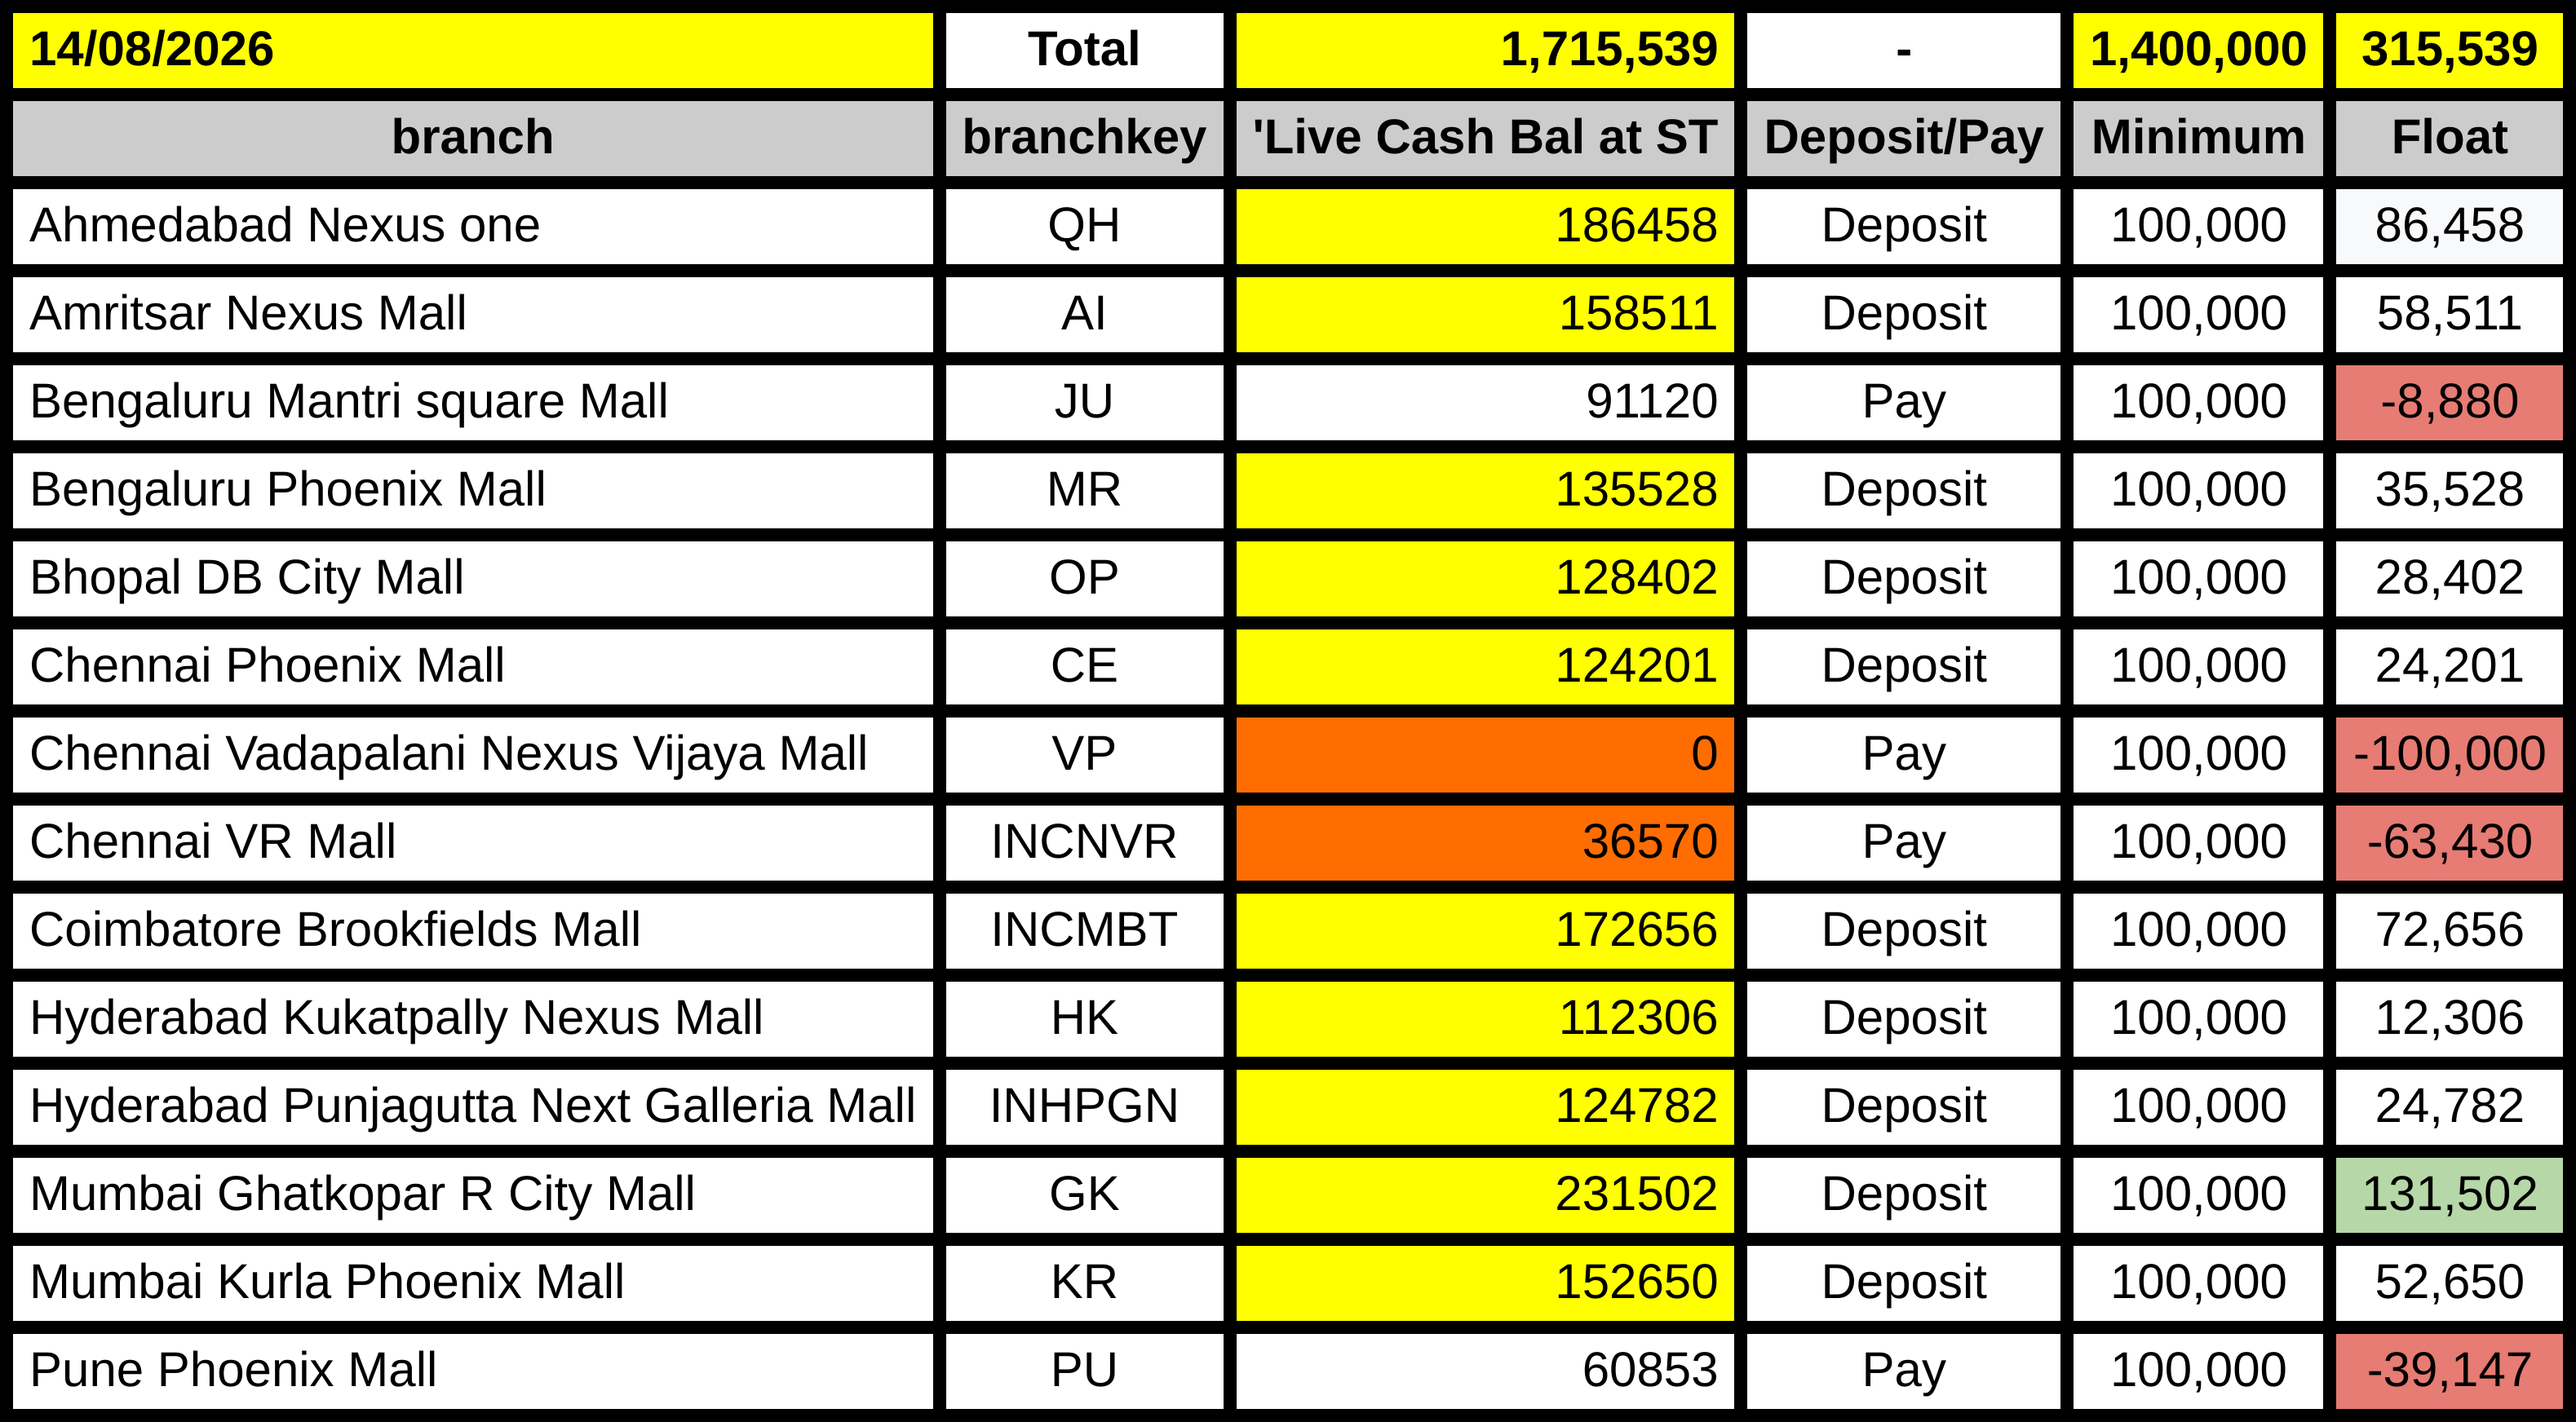
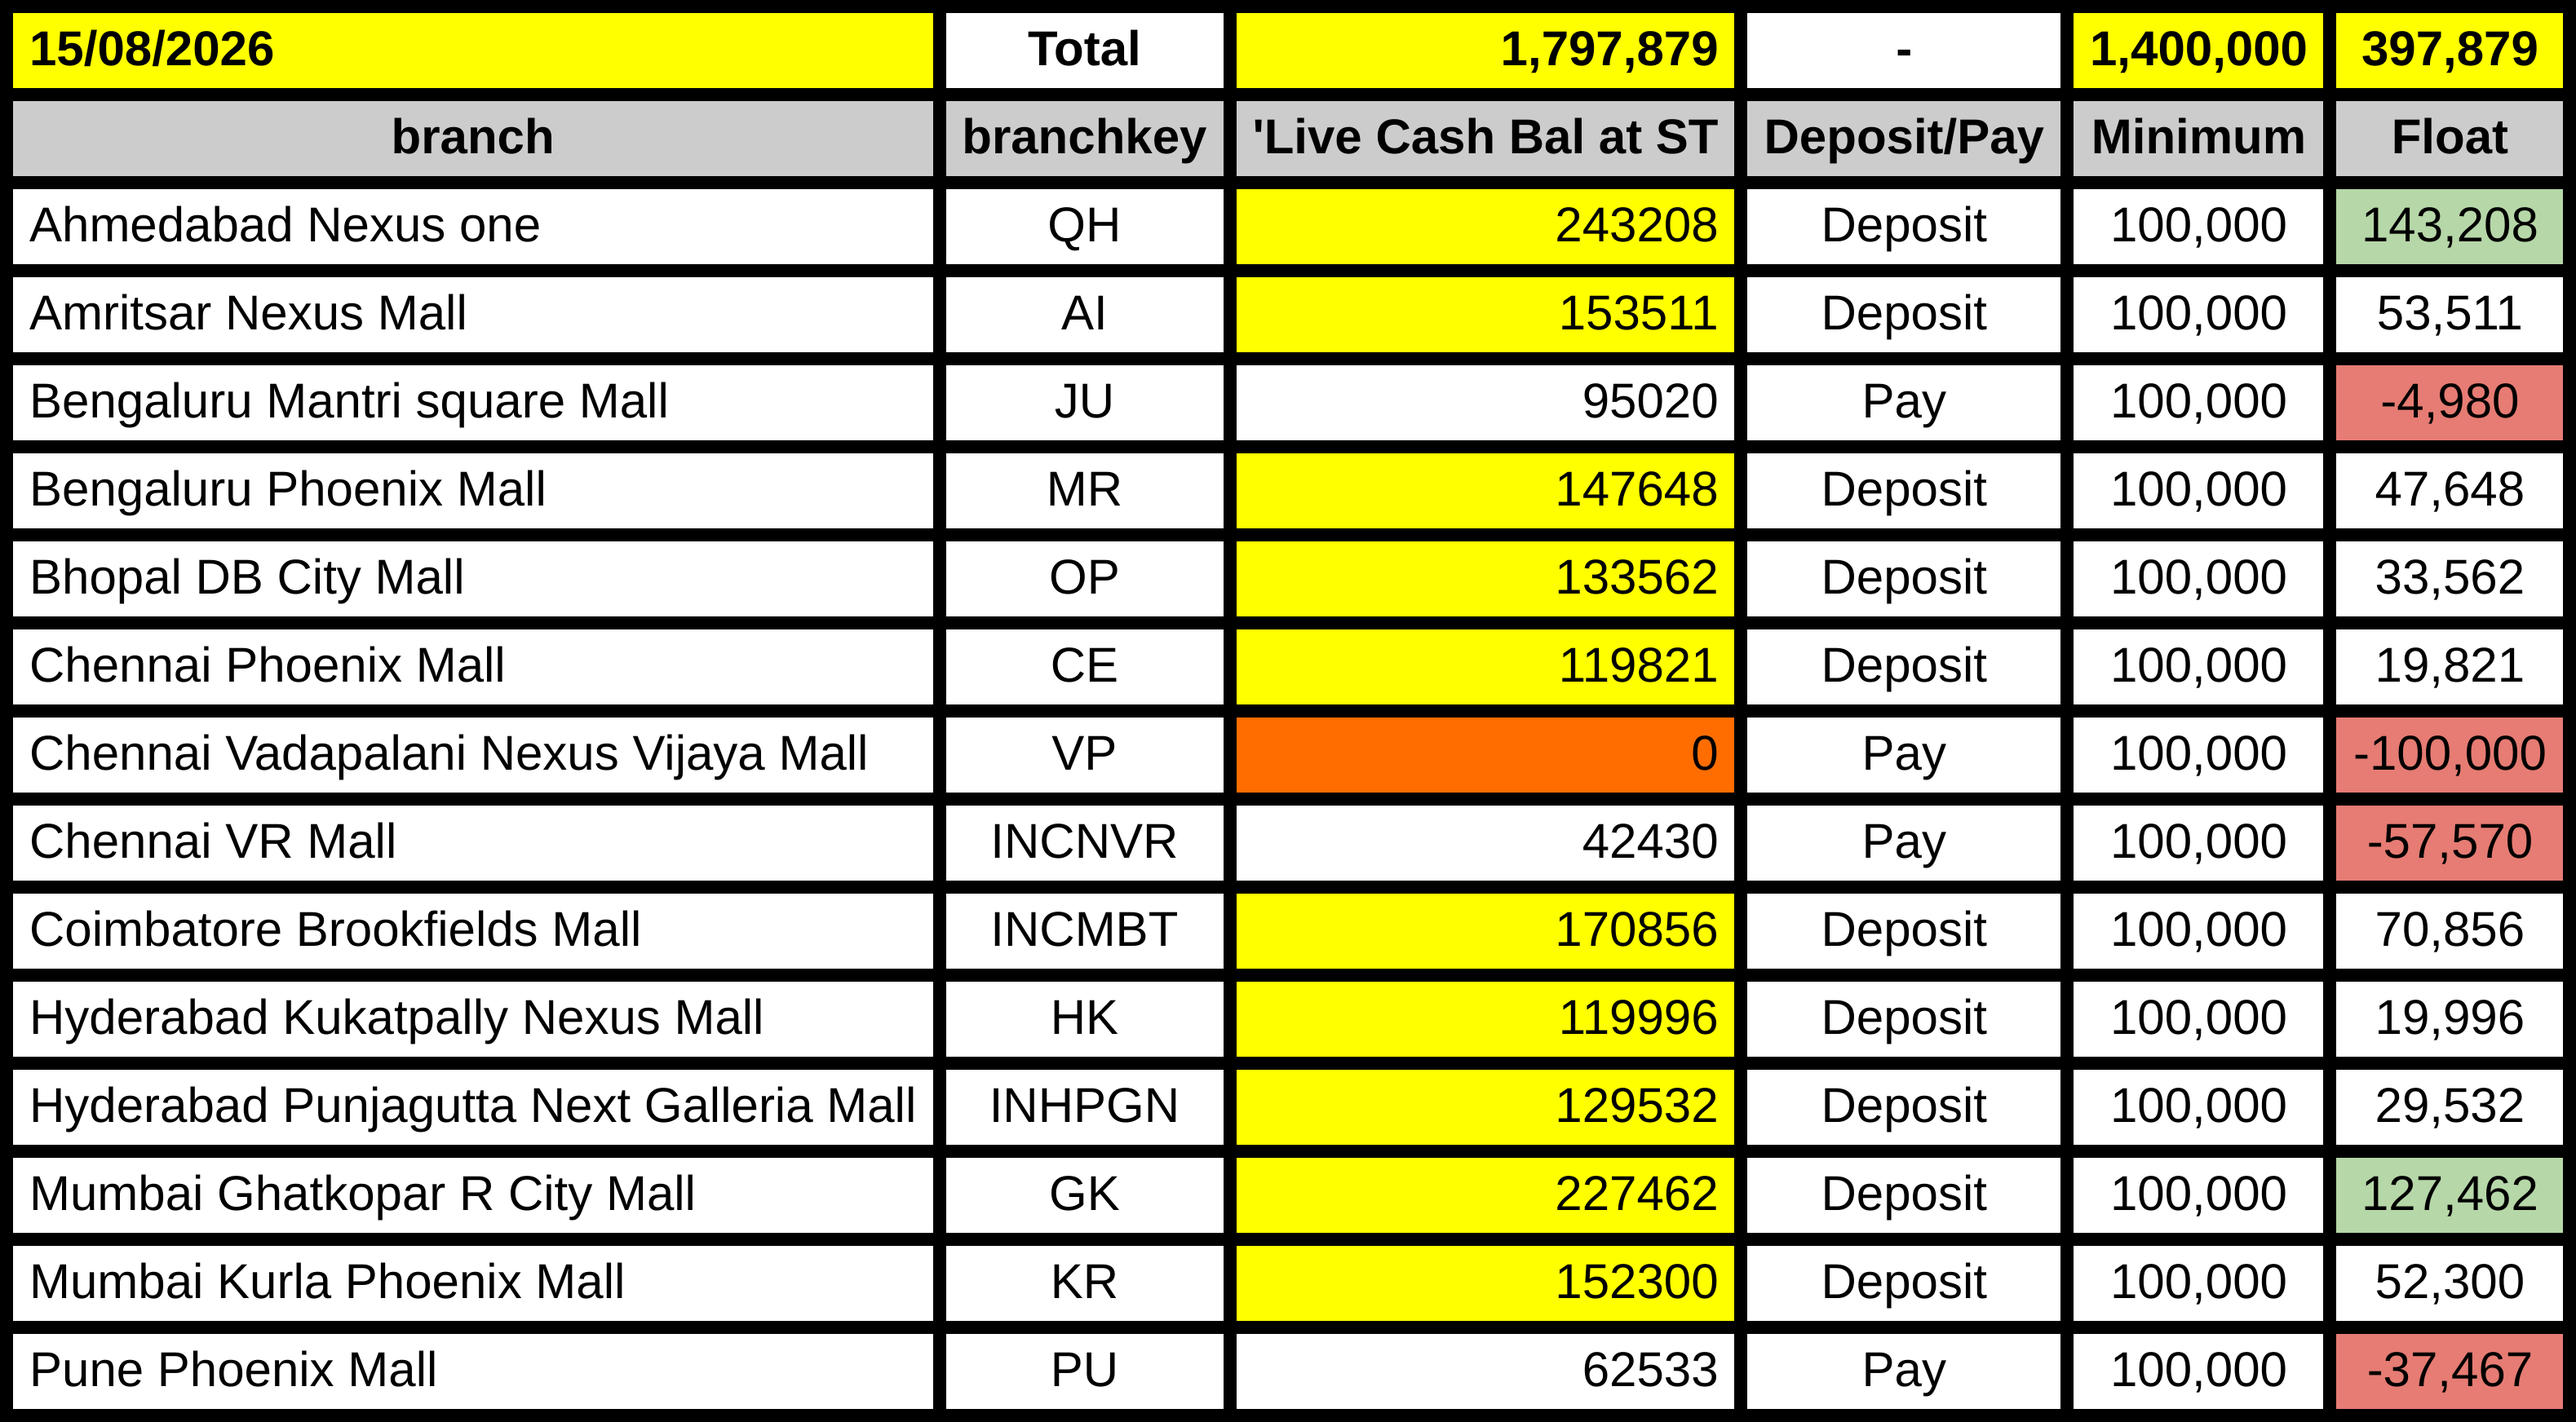
deploy: 1eb6ce62876c9d41067b4594acfaffc291ee4c8b

diff --git a/table.html b/table.html
@@ -21,7 +21,7 @@
           font-family: Arial, sans-serif;
           font-size: 30px;
           white-space: nowrap;
-        ">14/08/2026</td>
+        ">15/08/2026</td>
       
         <td style="
           background-color: #ffffff;
@@ -49,7 +49,7 @@
           font-family: Arial, sans-serif;
           font-size: 30px;
           white-space: nowrap;
-        ">1,715,539</td>
+        ">1,797,879</td>
       
         <td style="
           background-color: #ffffff;
@@ -91,7 +91,7 @@
           font-family: Arial, sans-serif;
           font-size: 30px;
           white-space: nowrap;
-        ">315,539</td>
+        ">397,879</td>
       </tr><tr>
         <td style="
           background-color: #cccccc;
@@ -217,7 +217,7 @@
           font-family: Arial, sans-serif;
           font-size: 30px;
           white-space: nowrap;
-        ">186458</td>
+        ">243208</td>
       
         <td style="
           background-color: #ffffff;
@@ -248,7 +248,7 @@
         ">100,000</td>
       
         <td style="
-          background-color: #f8f9fa;
+          background-color: #b6d7a8;
           color: #000000;
           font-weight: normal;
           font-style: normal;
@@ -259,7 +259,7 @@
           font-family: Arial, sans-serif;
           font-size: 30px;
           white-space: nowrap;
-        ">86,458</td>
+        ">143,208</td>
       </tr><tr>
         <td style="
           background-color: #ffffff;
@@ -301,7 +301,7 @@
           font-family: Arial, sans-serif;
           font-size: 30px;
           white-space: nowrap;
-        ">158511</td>
+        ">153511</td>
       
         <td style="
           background-color: #ffffff;
@@ -343,7 +343,7 @@
           font-family: Arial, sans-serif;
           font-size: 30px;
           white-space: nowrap;
-        ">58,511</td>
+        ">53,511</td>
       </tr><tr>
         <td style="
           background-color: #ffffff;
@@ -385,7 +385,7 @@
           font-family: Arial, sans-serif;
           font-size: 30px;
           white-space: nowrap;
-        ">91120</td>
+        ">95020</td>
       
         <td style="
           background-color: #ffffff;
@@ -427,7 +427,7 @@
           font-family: Arial, sans-serif;
           font-size: 30px;
           white-space: nowrap;
-        ">-8,880</td>
+        ">-4,980</td>
       </tr><tr>
         <td style="
           background-color: #ffffff;
@@ -469,7 +469,7 @@
           font-family: Arial, sans-serif;
           font-size: 30px;
           white-space: nowrap;
-        ">135528</td>
+        ">147648</td>
       
         <td style="
           background-color: #ffffff;
@@ -511,7 +511,7 @@
           font-family: Arial, sans-serif;
           font-size: 30px;
           white-space: nowrap;
-        ">35,528</td>
+        ">47,648</td>
       </tr><tr>
         <td style="
           background-color: #ffffff;
@@ -553,7 +553,7 @@
           font-family: Arial, sans-serif;
           font-size: 30px;
           white-space: nowrap;
-        ">128402</td>
+        ">133562</td>
       
         <td style="
           background-color: #ffffff;
@@ -595,7 +595,7 @@
           font-family: Arial, sans-serif;
           font-size: 30px;
           white-space: nowrap;
-        ">28,402</td>
+        ">33,562</td>
       </tr><tr>
         <td style="
           background-color: #ffffff;
@@ -637,7 +637,7 @@
           font-family: Arial, sans-serif;
           font-size: 30px;
           white-space: nowrap;
-        ">124201</td>
+        ">119821</td>
       
         <td style="
           background-color: #ffffff;
@@ -679,7 +679,7 @@
           font-family: Arial, sans-serif;
           font-size: 30px;
           white-space: nowrap;
-        ">24,201</td>
+        ">19,821</td>
       </tr><tr>
         <td style="
           background-color: #ffffff;
@@ -794,7 +794,7 @@
         ">INCNVR</td>
       
         <td style="
-          background-color: #ff6d01;
+          background-color: #ffffff;
           color: #000000;
           font-weight: normal;
           font-style: normal;
@@ -805,7 +805,7 @@
           font-family: Arial, sans-serif;
           font-size: 30px;
           white-space: nowrap;
-        ">36570</td>
+        ">42430</td>
       
         <td style="
           background-color: #ffffff;
@@ -847,7 +847,7 @@
           font-family: Arial, sans-serif;
           font-size: 30px;
           white-space: nowrap;
-        ">-63,430</td>
+        ">-57,570</td>
       </tr><tr>
         <td style="
           background-color: #ffffff;
@@ -889,7 +889,7 @@
           font-family: Arial, sans-serif;
           font-size: 30px;
           white-space: nowrap;
-        ">172656</td>
+        ">170856</td>
       
         <td style="
           background-color: #ffffff;
@@ -931,7 +931,7 @@
           font-family: Arial, sans-serif;
           font-size: 30px;
           white-space: nowrap;
-        ">72,656</td>
+        ">70,856</td>
       </tr><tr>
         <td style="
           background-color: #ffffff;
@@ -973,7 +973,7 @@
           font-family: Arial, sans-serif;
           font-size: 30px;
           white-space: nowrap;
-        ">112306</td>
+        ">119996</td>
       
         <td style="
           background-color: #ffffff;
@@ -1015,7 +1015,7 @@
           font-family: Arial, sans-serif;
           font-size: 30px;
           white-space: nowrap;
-        ">12,306</td>
+        ">19,996</td>
       </tr><tr>
         <td style="
           background-color: #ffffff;
@@ -1057,7 +1057,7 @@
           font-family: Arial, sans-serif;
           font-size: 30px;
           white-space: nowrap;
-        ">124782</td>
+        ">129532</td>
       
         <td style="
           background-color: #ffffff;
@@ -1099,7 +1099,7 @@
           font-family: Arial, sans-serif;
           font-size: 30px;
           white-space: nowrap;
-        ">24,782</td>
+        ">29,532</td>
       </tr><tr>
         <td style="
           background-color: #ffffff;
@@ -1141,7 +1141,7 @@
           font-family: Arial, sans-serif;
           font-size: 30px;
           white-space: nowrap;
-        ">231502</td>
+        ">227462</td>
       
         <td style="
           background-color: #ffffff;
@@ -1183,7 +1183,7 @@
           font-family: Arial, sans-serif;
           font-size: 30px;
           white-space: nowrap;
-        ">131,502</td>
+        ">127,462</td>
       </tr><tr>
         <td style="
           background-color: #ffffff;
@@ -1225,7 +1225,7 @@
           font-family: Arial, sans-serif;
           font-size: 30px;
           white-space: nowrap;
-        ">152650</td>
+        ">152300</td>
       
         <td style="
           background-color: #ffffff;
@@ -1267,7 +1267,7 @@
           font-family: Arial, sans-serif;
           font-size: 30px;
           white-space: nowrap;
-        ">52,650</td>
+        ">52,300</td>
       </tr><tr>
         <td style="
           background-color: #ffffff;
@@ -1309,7 +1309,7 @@
           font-family: Arial, sans-serif;
           font-size: 30px;
           white-space: nowrap;
-        ">60853</td>
+        ">62533</td>
       
         <td style="
           background-color: #ffffff;
@@ -1351,7 +1351,7 @@
           font-family: Arial, sans-serif;
           font-size: 30px;
           white-space: nowrap;
-        ">-39,147</td>
+        ">-37,467</td>
       </tr>
   </table>
 </body>
